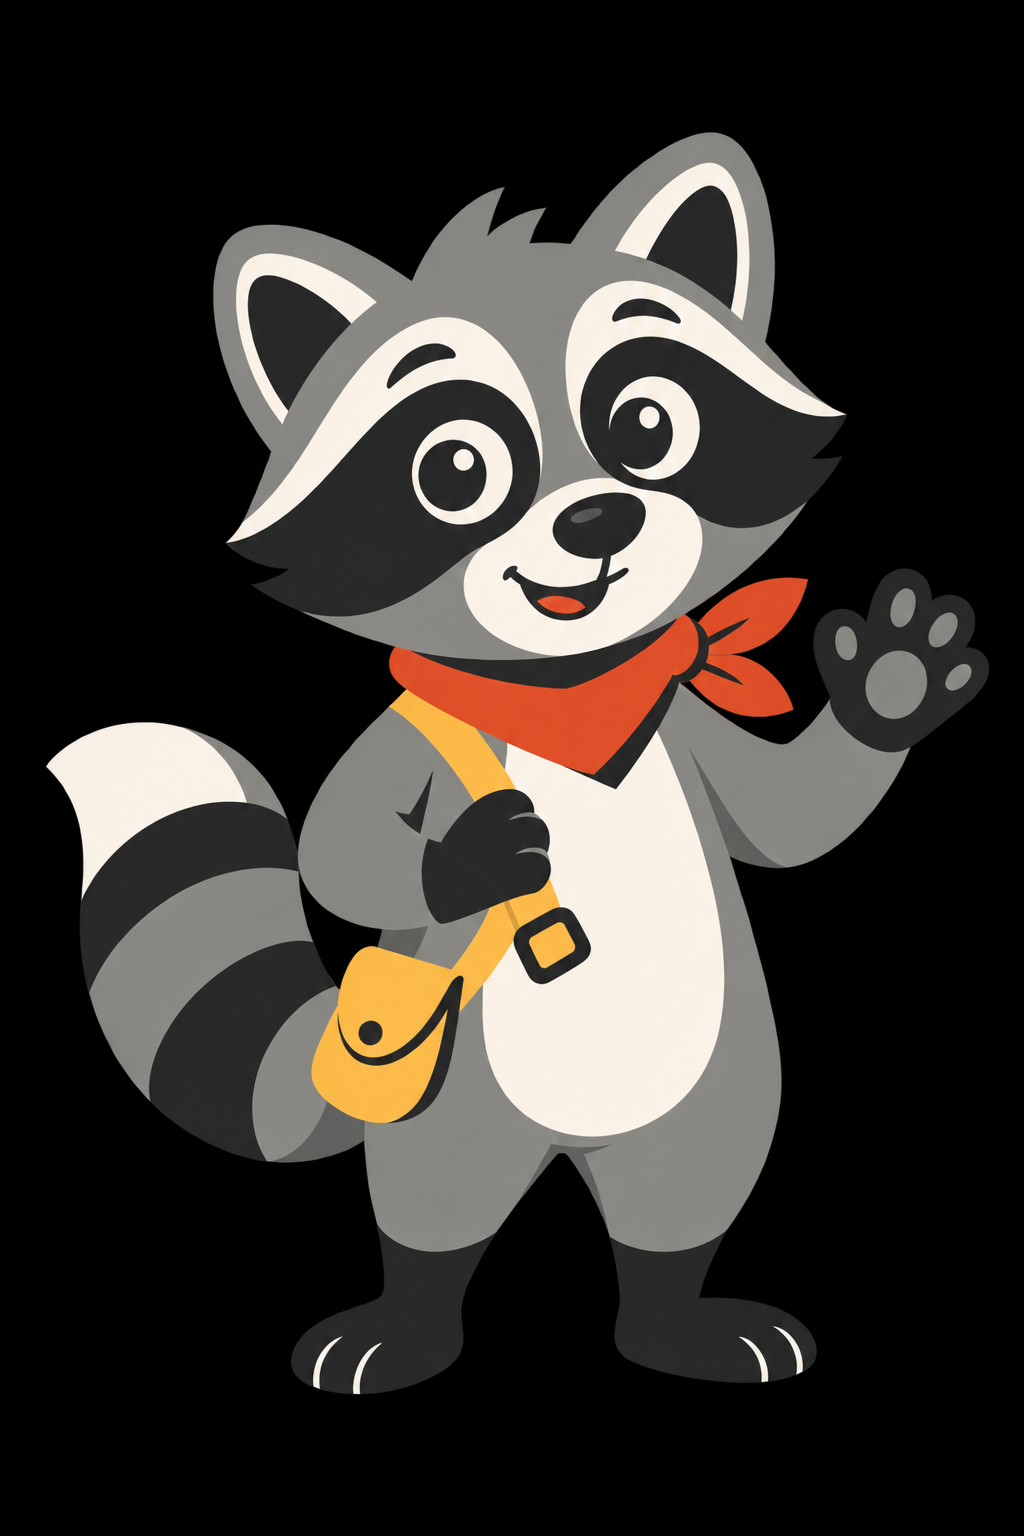
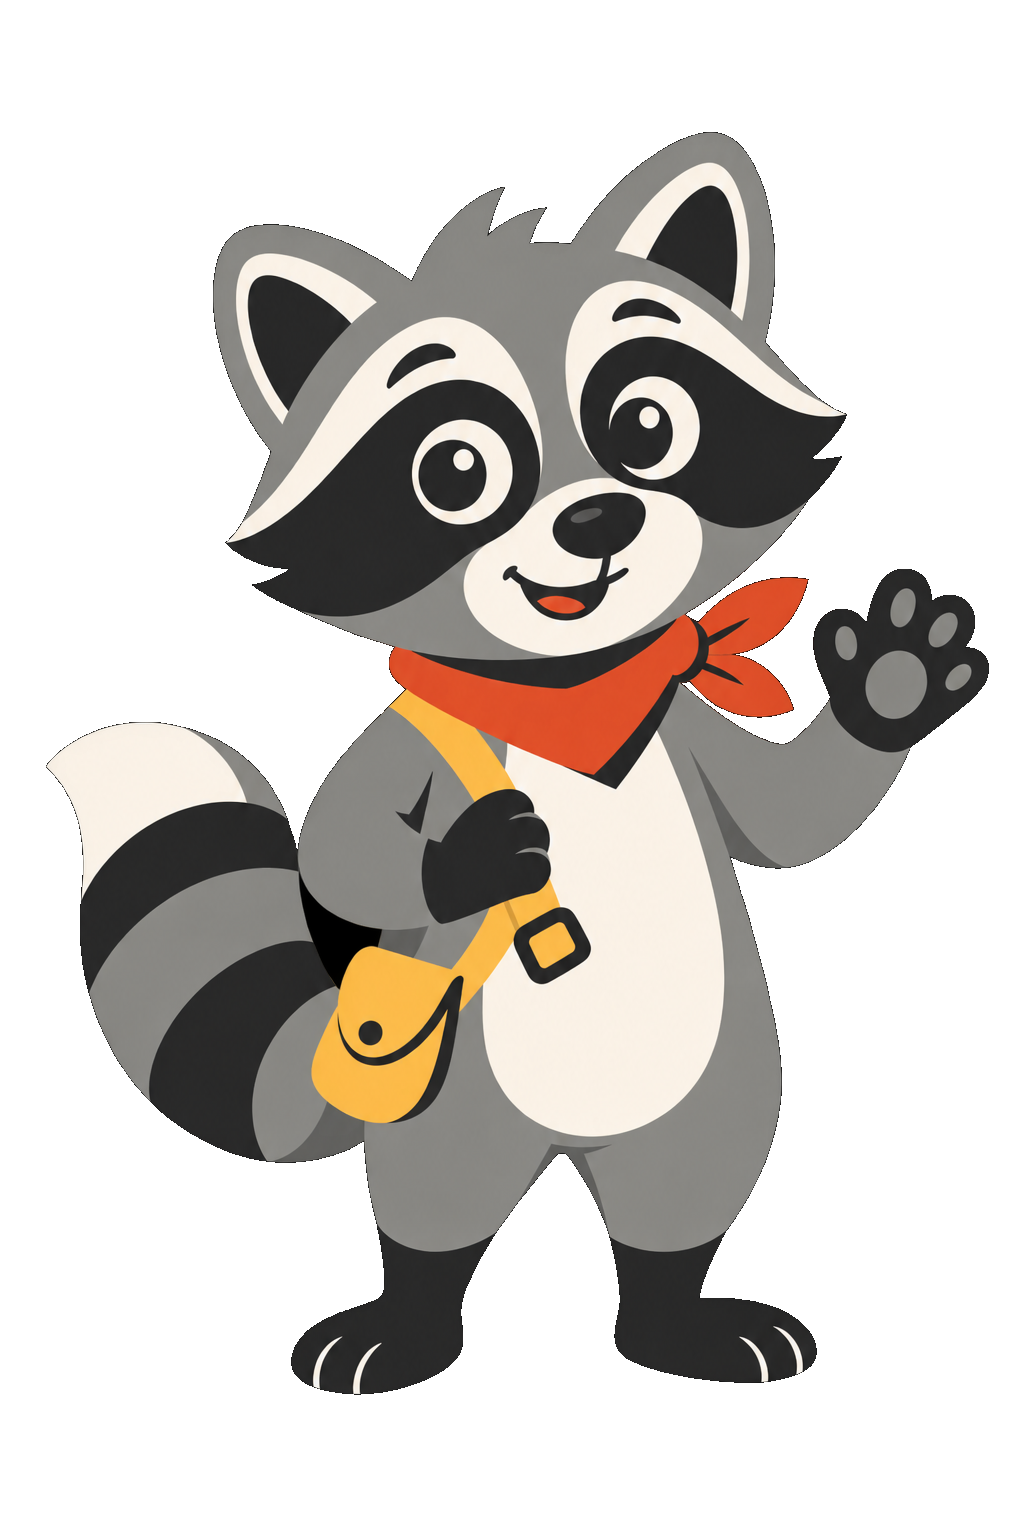
Journeyo — rotation de screenshots para App Store/Play Store
5 telas: abertura e fechamento com o mascote (acenando/comemorando),
e 3 capturas REAIS do app curso-portugal-en (jornada + prova, lição
em prática, kit de consulta offline) — não mockup.

Corrige de quebra: as duas poses do mascote (corpo inteiro e
comemorando) tinham fundo preto sólido em vez de transparente —
o clipboard do Windows achata o alpha ao copiar do ChatGPT. Removido
via flood-fill (mantém os pretos do próprio personagem intactos).

README documenta um bug de overflow horizontal encontrado no header
do app abaixo de ~480px de largura (a faixa de qualquer celular real)
durante a investigação — não corrigido nesta sessão, root cause não
isolada.

diff --git a/brand/README.md b/brand/README.md
@@ -14,6 +14,11 @@ carvão `#2B2B2B`, salvia `#7FA98C`.
     canvas quadrado com margem — é o MASTER usado para gerar todos os ícones.
   - `mascote-corpo-inteiro.png` — guaxinim de corpo inteiro, acenando, fundo
     transparente. Para telas de boas-vindas do app e screenshots de loja.
+  - `mascote-comemorando.png` — mesmo guaxinim, pose de comemoração (braços
+    pro alto), fundo transparente. Para telas de sucesso/progresso.
+  - `mascote-corpo-inteiro-creme.png` / `mascote-comemorando-creme.png` —
+    as duas poses acima já achatadas em fundo creme sólido (prontas pra usar
+    onde transparência não for necessária ou desejável).
   - `banner-feature-graphic.png` — cena larga (guaxinim chegando a um lugar
     novo, porta em arco), fundo creme, sem texto. Base para banners/redes
     sociais/feature graphic.
@@ -33,6 +38,28 @@ carvão `#2B2B2B`, salvia `#7FA98C`.
     (pode usar direto o hex no Android Studio em vez do arquivo).
 - `marketing/feature-graphic-1024x500.png` — banner no tamanho exato exigido
   pelo Google Play Console (Store listing → Graphics → Feature graphic).
+- `marketing/screenshots/final-slide-{1..5}-*.png` — o "rotation" de
+  screenshots para a página de loja (App Store / Play Store), 1200×2600
+  (retrato, perto do 6.9"/6.5" que a Apple pede — reamostrar se a Apple
+  exigir o tamanho exato na hora da submissão). Composição: legenda de marca
+  no topo + a peça principal embaixo. As telas 2, 3 e 4 são capturas REAIS do
+  app `curso-portugal-en` (não mockup) — respectivamente: a tela inicial com
+  a jornada Chegada/Dia a dia/Se Integrando e o "fato real" de prova; uma
+  lição em prática; e o kit de consulta offline. As telas 1 e 5 usam o
+  mascote (acenando / comemorando) como abertura e fechamento. Gerado com
+  Chrome headless (`--headless=new`; o modo antigo tem um bug conhecido que
+  achata PNG transparente pra preto na captura) renderizando arquivos HTML
+  locais que compõem legenda + imagem — script descartável, não versionado.
+
+  **Nota:** as capturas reais só ficam sem corte de layout em largura lógica
+  ≥ ~500px. Abaixo disso (a faixa de praticamente todo celular real,
+  375–430px) o app `curso-portugal-en` tem um bug de overflow horizontal —
+  investigado nesta sessão mas não corrigido (causa raiz não isolada com as
+  ferramentas disponíveis; pode ser específico do Chrome headless, não
+  confirmado num navegador real). Ver [[kit-de-bordo-rebrand-journeyo]] na
+  memória do projeto. Vale conferir num celular de verdade antes de assumir
+  que é bug de produção — e, se for, provavelmente afeta os 37+ SKUs, já que
+  o header é compartilhado.
 
 ## Uso na landing page
 
